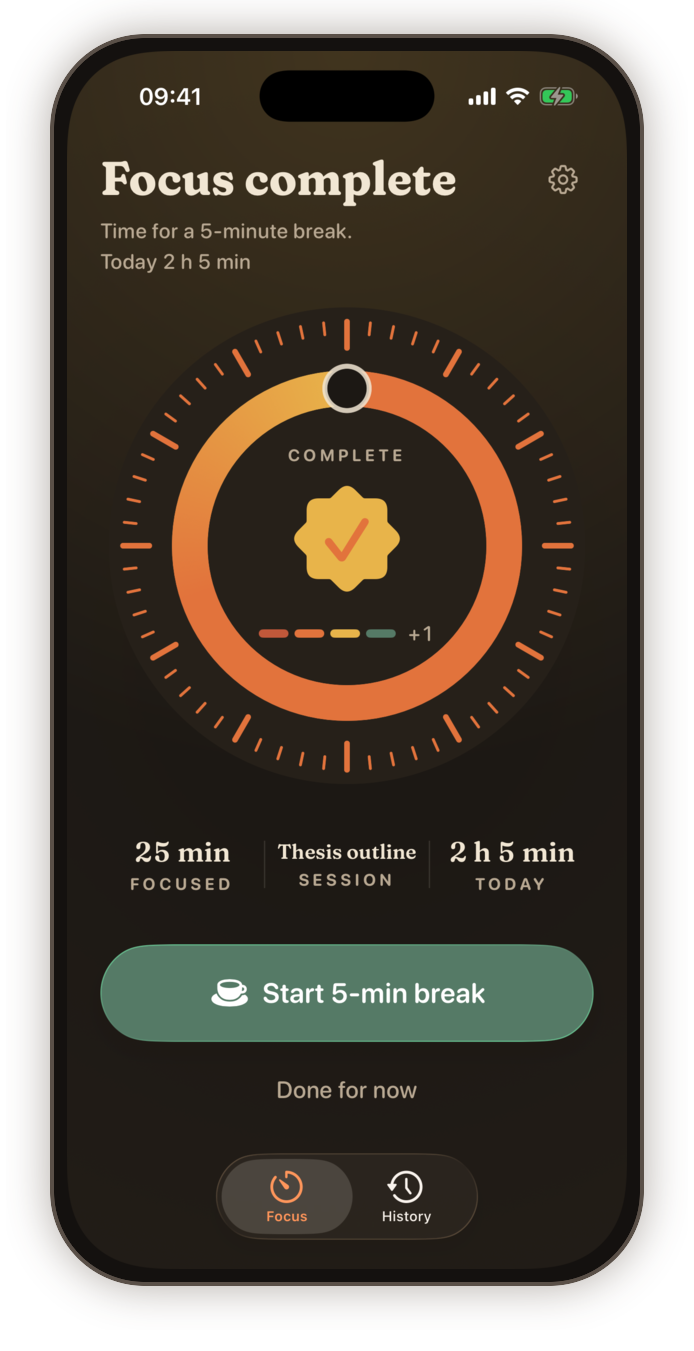
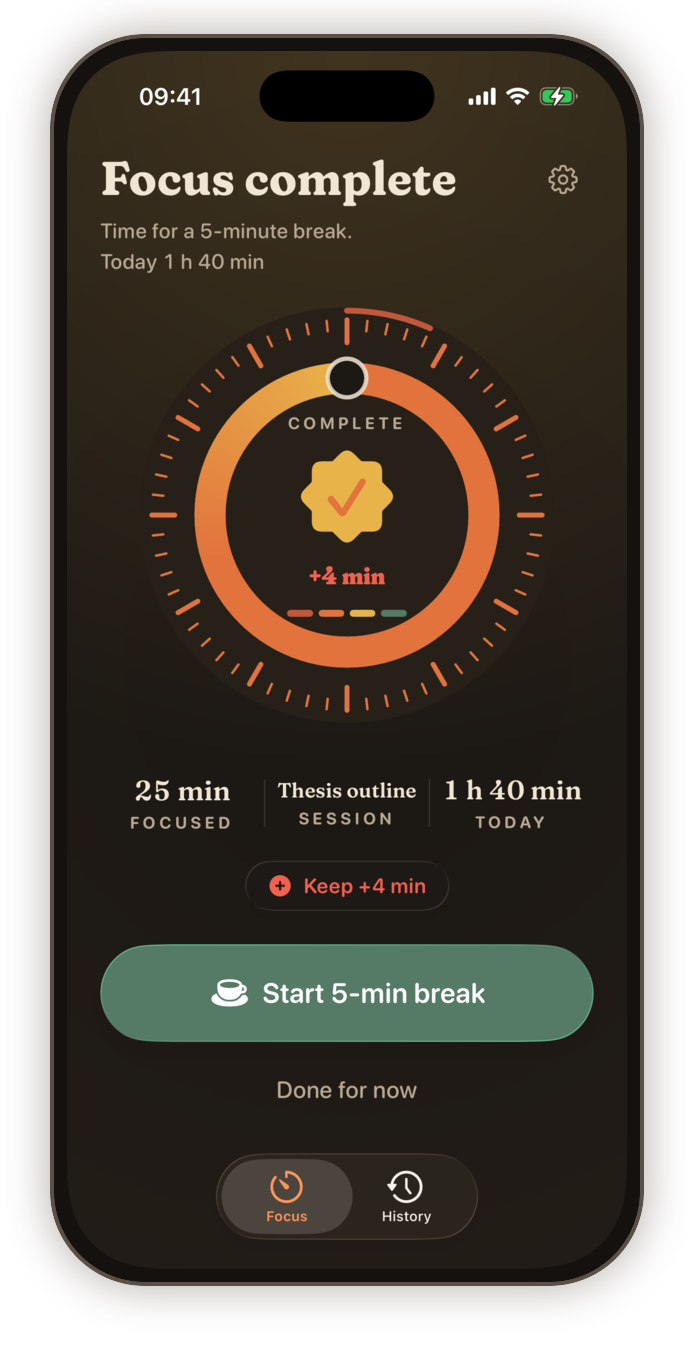
README: overtime, Siri and the control, first launch, Mindful Minutes
Features gain "Keeps going after the bell", Mindful Minutes, Siri,
Shortcuts and Control Center, and "Teaches itself"; the session card's
extra minutes and the running chip's new place in History are described.
The Complete screenshot now shows a session four minutes past the bell,
captured with the new -DemoOvertime argument; -ResetOnboarding is listed
with the other launch arguments.

diff --git a/Clockin/Debug/DemoData.swift b/Clockin/Debug/DemoData.swift
@@ -45,12 +45,22 @@ enum DemoData {
     /// seconds after launch, so the completion moment shows real durations.
     /// Must run before `AppServices` loads the saved state.
     @MainActor
+    /// `-DemoFinishing`: a session that runs out 3 seconds after launch.
+    /// `-DemoOvertime`: one that ran out four minutes ago, kept going since.
     static func prepareFinishingSession(now: Date = .now) {
-        guard ProcessInfo.processInfo.arguments.contains("-DemoFinishing") else { return }
+        let arguments = ProcessInfo.processInfo.arguments
+        let end: TimeInterval
+        if arguments.contains("-DemoFinishing") {
+            end = 3
+        } else if arguments.contains("-DemoOvertime") {
+            end = -(4 * 60 + 10)
+        } else {
+            return
+        }
         let session = ActiveSession(id: UUID(), name: "Thesis outline", phase: .focus,
                                     plannedDuration: Preset.classic.focus,
-                                    focusStartedAt: now.addingTimeInterval(3 - Preset.classic.focus),
-                                    state: .running(endDate: now.addingTimeInterval(3)))
+                                    focusStartedAt: now.addingTimeInterval(end - Preset.classic.focus),
+                                    state: .running(endDate: now.addingTimeInterval(end)))
         DefaultsSessionStateStore().save(PersistedSessionState(active: session))
     }
 
